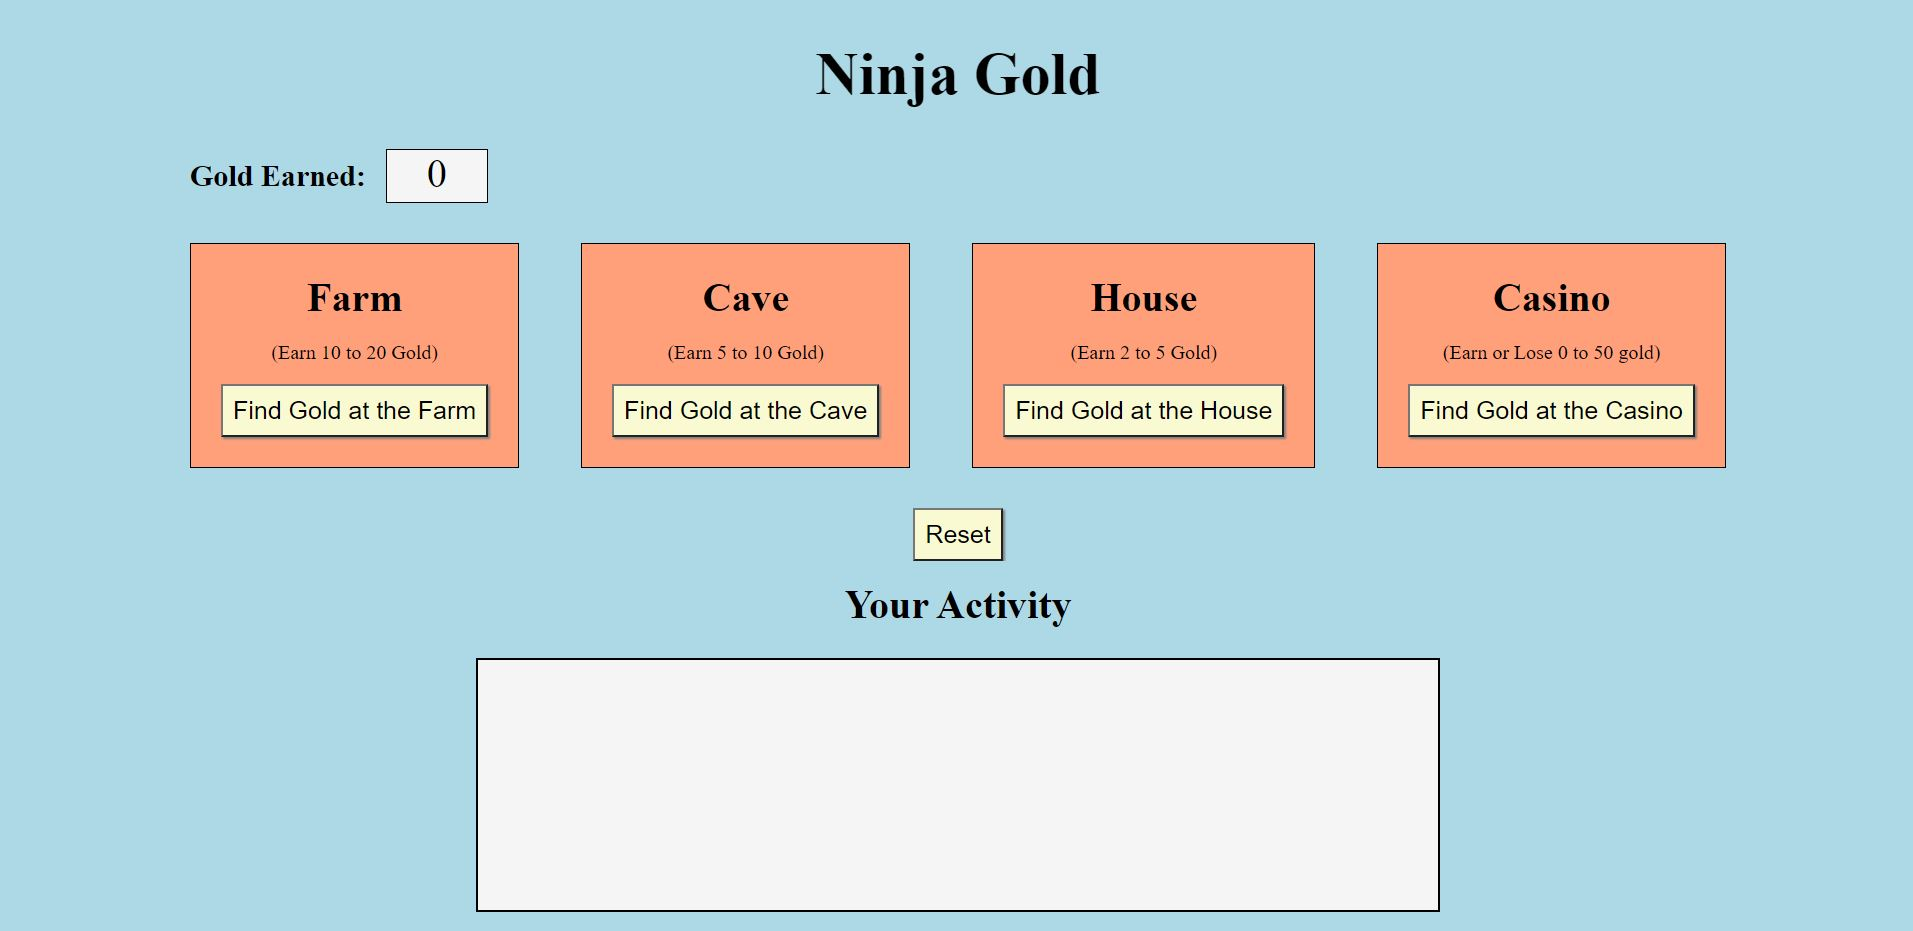
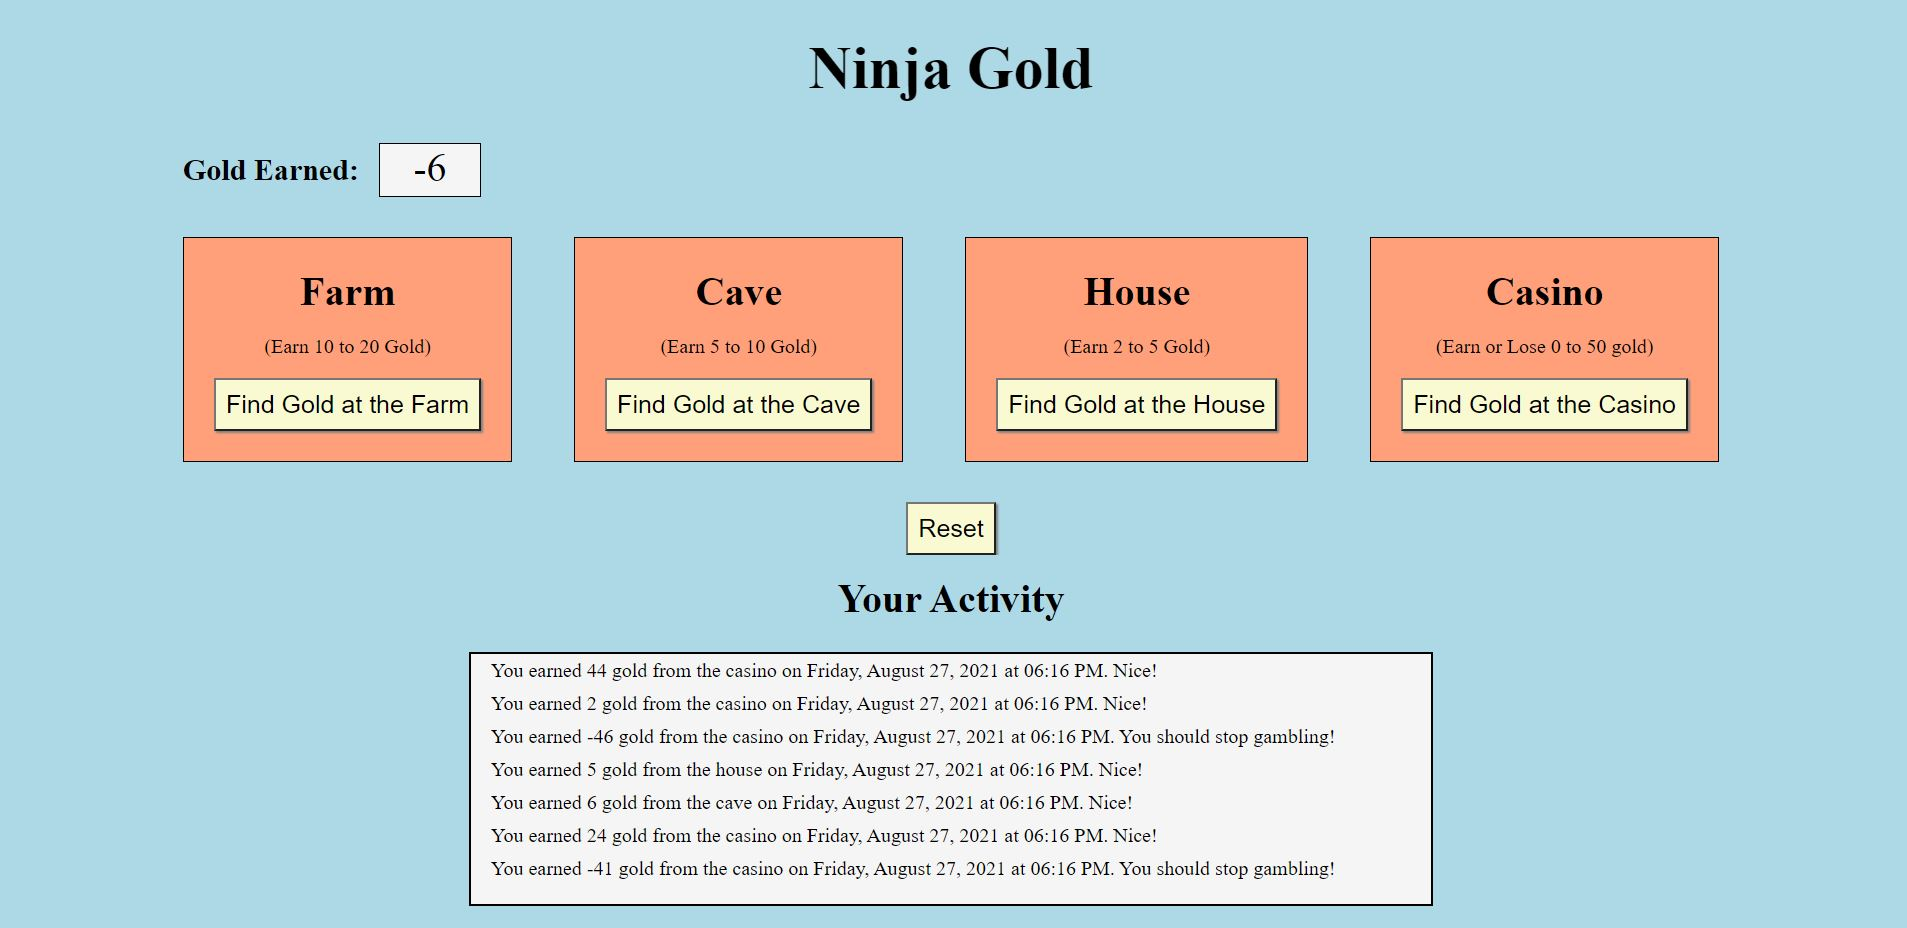
Updated README

diff --git a/ninja_gold_app/views.py b/ninja_gold_app/views.py
@@ -24,9 +24,8 @@ def process_money(request):
         request.session['gold_amt'] += gold[location]
         if gold[location] < 0:
             message = f"You earned {gold[location]} gold from the {location} on {date_time}. You should stop gambling!"
-
         else:
-            message = f"You earned {gold[location]} gold from the {location} on {date_time}. You should stop gambling!"
+            message = f"You earned {gold[location]} gold from the {location} on {date_time}. Nice!"
 
         request.session['activity'].append(message)
     else:
